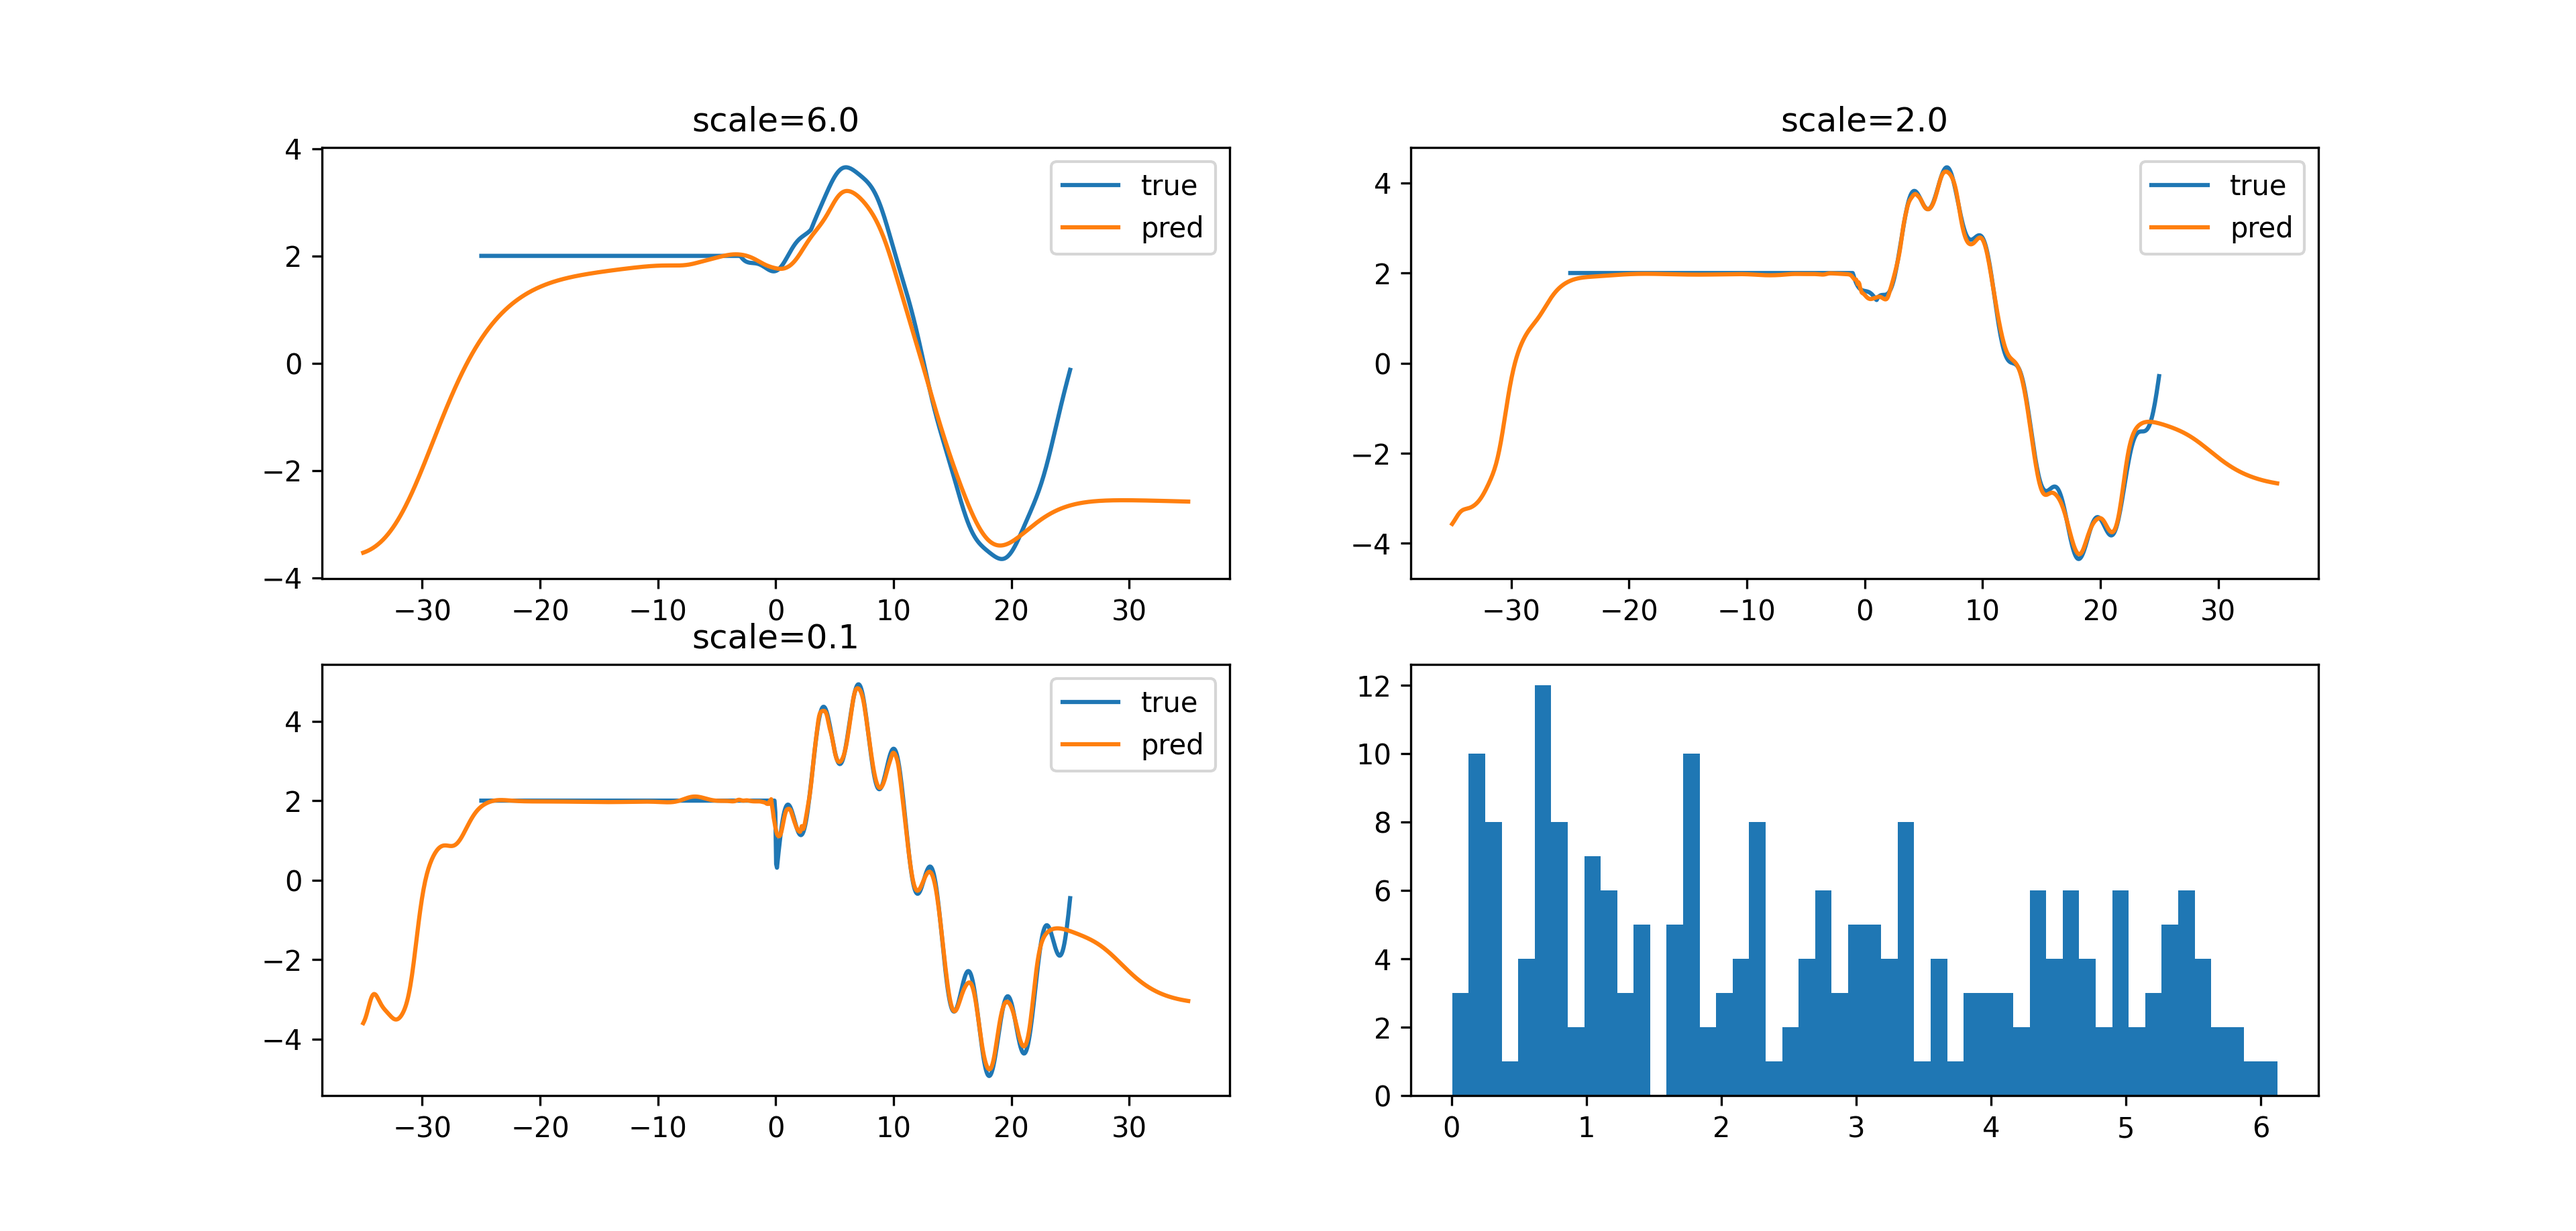
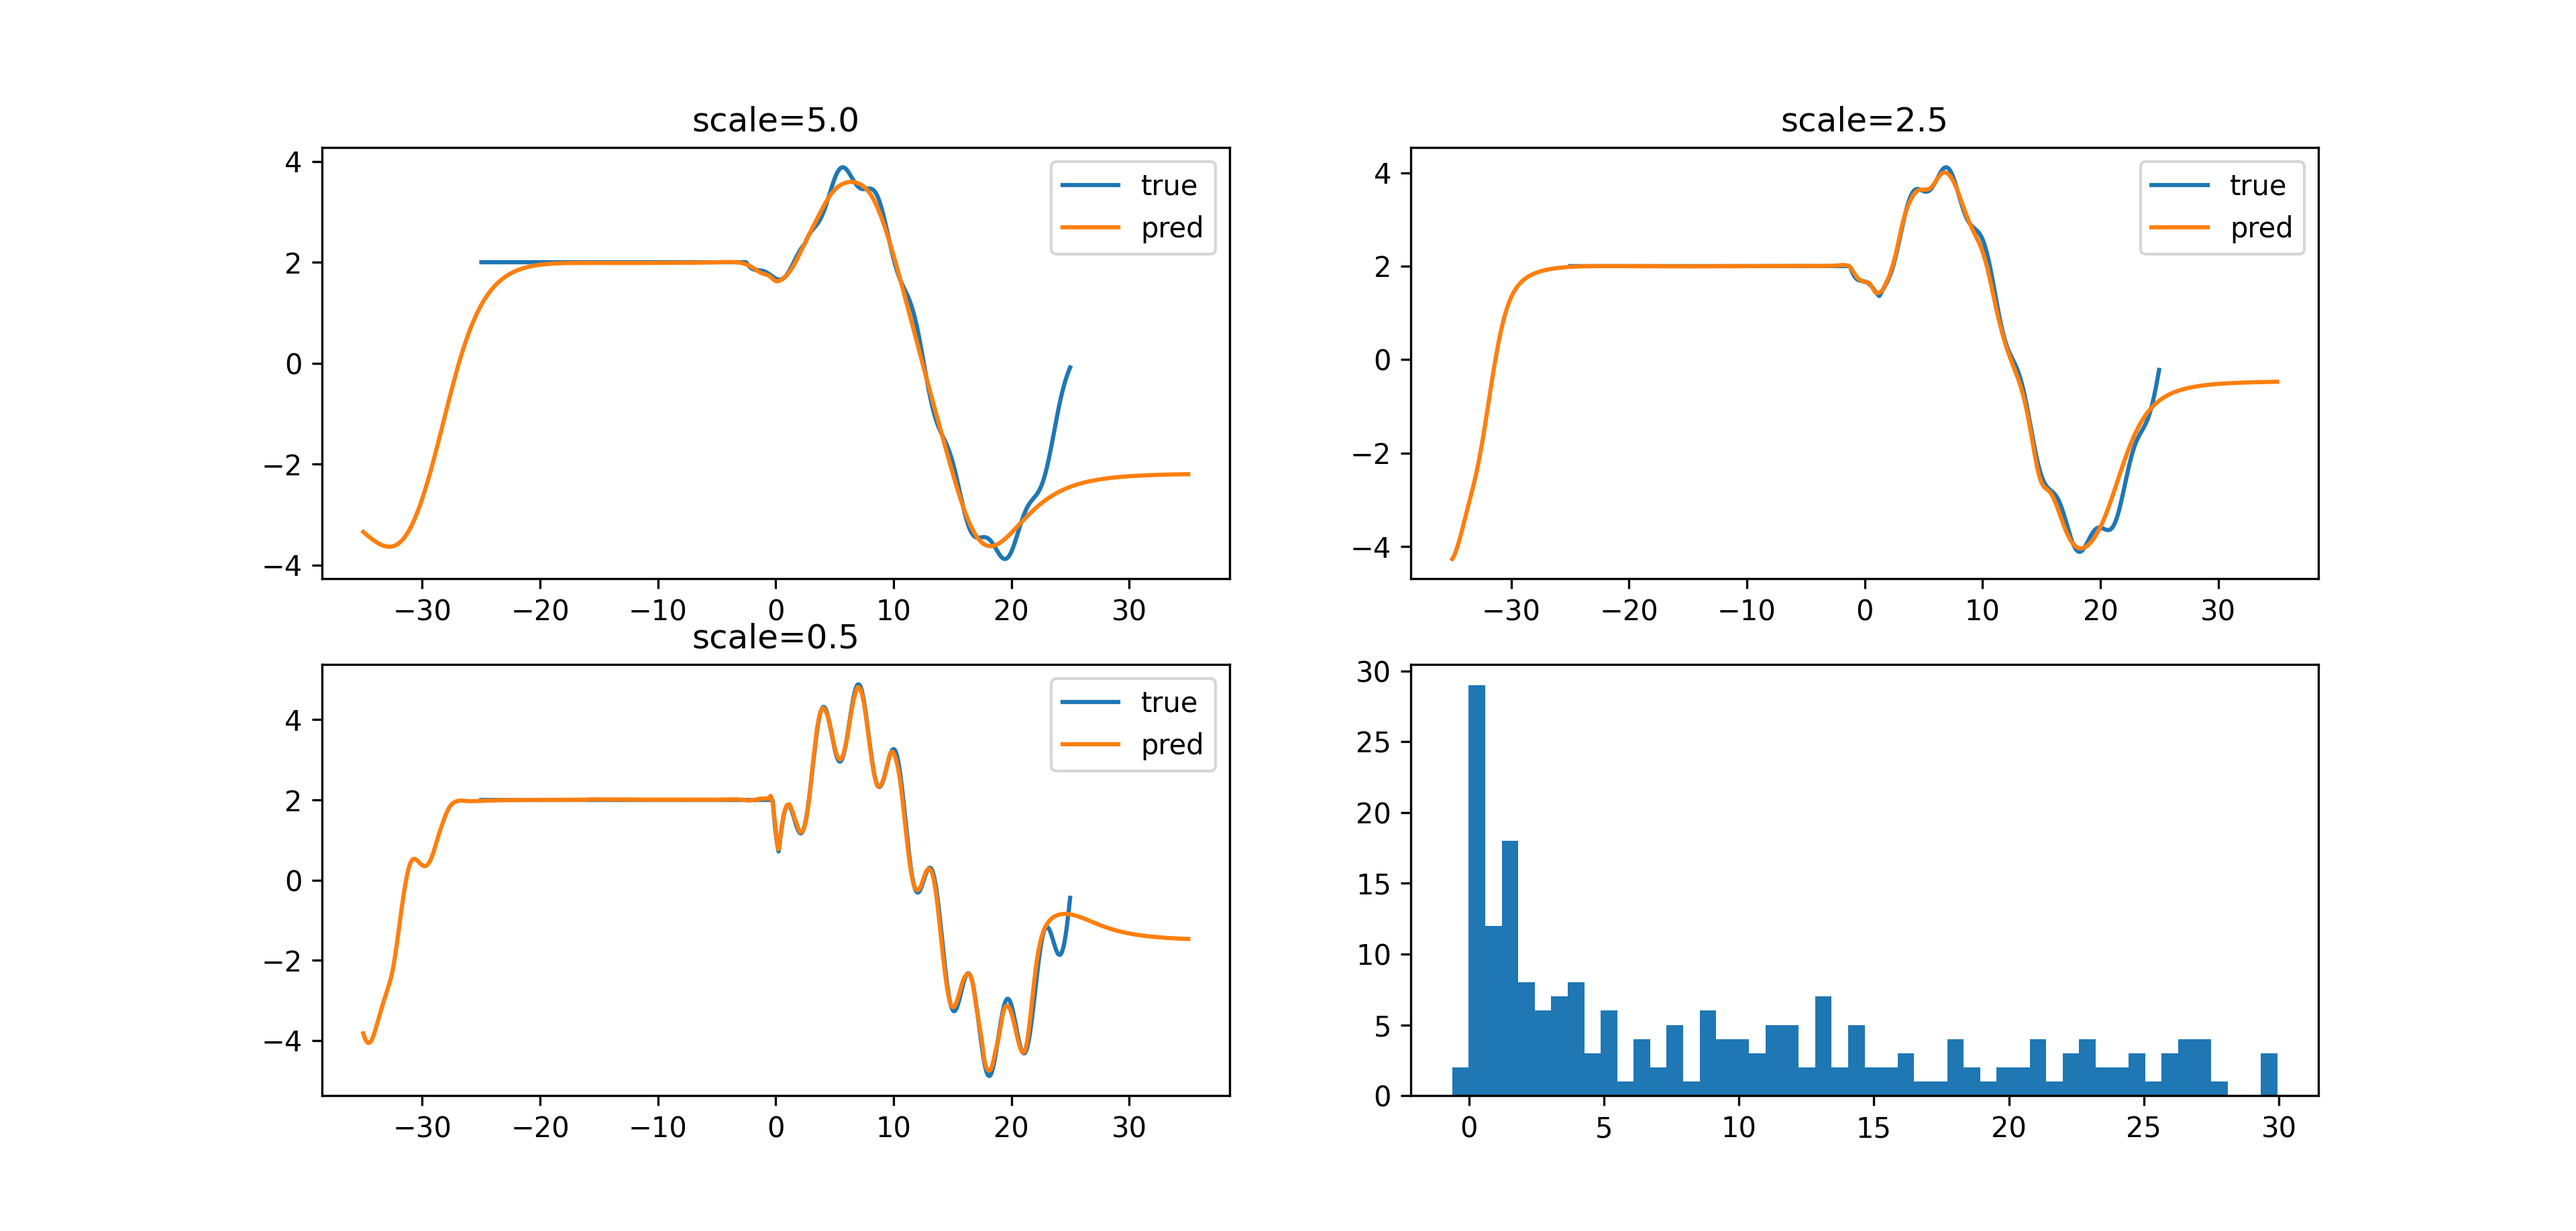
WIP: 1d mip garf

diff --git a/test-camera-similarity/main.py b/test-camera-similarity/main.py
@@ -1,4 +1,5 @@
-from gaussian import GaussAct as GaussActGarf
+from gaussian import GaussAct
+from model import GaussActMLP, Function1, Function2
 
 import torch.nn as nn
 import torch as th
@@ -6,87 +7,6 @@ import matplotlib.pyplot as plt
 
 from itertools import product
 from typing import cast
-
-class GaussAct(GaussActGarf):
-    pass
-
-class GaussActMLP(nn.Module):
-    def __init__(self, n_hidden, input_dim, output_dim, hidden_dim, initial_values):
-        super().__init__()
-        self.activations = []
-        self.layers = []
-        self.input_dim = input_dim
-        self.output_dim = output_dim
-        self.hidden_dim = hidden_dim
-        self.n_hidden = n_hidden
-
-        for i in range(n_hidden):
-            if i == 0:
-                self.layers.append(nn.Linear(input_dim, hidden_dim))
-            else:
-                self.layers.append(nn.Linear(hidden_dim, hidden_dim))
-            self.activations.append(GaussAct(initial_values))
-        self.layers.append(nn.Linear(hidden_dim, output_dim))
-
-        self.layers = nn.ModuleList(self.layers)
-        self.activations = nn.ModuleList(self.activations)
-        
-    def forward(self, x: th.Tensor, scale=0.):
-        for i in range(self.n_hidden):
-            x = self.layers[i](x)
-            x = self.activations[i](x, scale)#*(i==0 or i==self.n_hidden-1))
-        x = self.layers[-1](x)
-        return x
-
-
-def Function1(x, scale = 0.):
-    f1 = lambda x: (th.sin(x/4)*4 + th.sin(2*x))*(x > 0).float()
-    f2 = lambda x: th.ones_like(x)*2*(x <= 0).float()
-    f1_int_ = lambda x: -th.cos(x/4)*16 - th.cos(2*x)/2
-    f2_int_ = lambda x: 2*x
-    f1_int = lambda x: f1_int_(x)*(x > 0).float() + f1_int_(th.tensor(0))*(x <= 0)
-    f2_int = lambda x: f2_int_(x)*(x <= 0).float() + f2_int_(th.tensor(0))*(x > 0)
-    F1 = lambda x,s: (f1_int(x+s/2) - f1_int(x-s/2))/s
-    F2 = lambda x,s: (f2_int(x+s/2) - f2_int(x-s/2))/s
-
-    mask = (x > 25.001) | (x < -25.001)
-    if scale == 0:
-        y = f1(x) + f2(x)
-        y[mask] = th.nan
-    else:
-        y = F1(x, scale) + F2(x, scale)
-        y[mask] = th.nan
-
-    return y
-
-    # plt.plot(x, f1(x), label="f1")
-    # plt.plot(x, f1_int(x), label="f1_int")
-    # plt.plot(x, F1(x, 1.), label="F1")
-    # plt.legend()
-    # plt.show()
-    # plt.plot(x, f2(x), label="f2")
-    # plt.plot(x, f2_int(x), label="f2_int")
-    # plt.plot(x, F2(x, 1.), label="F2")
-    # plt.legend()
-    # plt.show()
-
-
-
-def Function2(x, scale = 0., frequency = th.pi):
-    # similar to Function1, but the underlying function
-    # is just one sinus curve
-    f = lambda x: th.sin(th.pi*x*frequency)
-    f_int = lambda x: -th.cos(th.pi*x*frequency)/frequency/th.pi
-    F = lambda x,s: (f_int(x+s/2) - f_int(x-s/2))/s
-    mask = (x > 25.001) | (x < -25.001)
-    if scale == 0:
-        y = f(x)
-        y[mask] = th.nan
-    else:
-        y = F(x, scale)
-        y[mask] = th.nan
-    
-    return y
 
 
 def true_func(x, scale, frequency=1):
@@ -97,25 +17,18 @@ hidden_dim = 70
 n_hidden = 3
 epochs = 20000
 # scales_test = th.tensor([[6,2],[0.1, th.nan]])
-scales_test = th.tensor([[5., 1., ],[0.5, 0.]])
+scales_test = th.tensor([[5., 2.5, ],[0.5, th.nan]])
 size_train = lambda: int(th.randint(10, 100, (1,)).int().item())
 x_train_func = lambda size: th.rand(size, 1)*40 - 20 + th.rand(size, 1)*8 - 4
 
-initial_values_var = lambda shape: th.rand(shape)*6
-
-model = GaussActMLP(n_hidden, 1, 1, hidden_dim, initial_values_var)
-
+initial_values_func = lambda shape: th.rand(shape)*3 + 0.5
+model = GaussActMLP(n_hidden, 1, 1, hidden_dim, initial_values_func)
 
 optimizer_gauss = th.optim.Adam(model.parameters(), lr=0.001)
 loss_func = nn.MSELoss()
 plt.ion()
 fig, axs = plt.subplots(*scales_test.shape)#, sharex=True, sharey=True, figsize=(15,23))
 axs = axs.reshape(scales_test.shape)
-# x = th.linspace(-35, 35, 10000)
-# ax.plot(x, true_func(x), label="true")
-# ax.plot(x, true_func(x, 3.), label="true: scale=2.5")
-# plt.show()
-# exit()
 
 def slice_(arr, idx):
     if len(idx) == 1:  return arr[idx[0]]
@@ -141,7 +54,7 @@ for j in range(epochs):
                 ax.clear()
                 scale = cast(th.Tensor, slice_(scales_test, idx))
                 if th.isnan(scale):
-                    act_params = th.cat([a.variance for a in model.activations]).flatten() #type: ignore
+                    act_params = th.cat([a.param for a in model.activations]).flatten() #type: ignore
                     ax.hist(act_params, bins=50)
                 else:
                     y_test = true_func(x_test, cast(float, scale))

diff --git a/test-camera-similarity/gaussian.py b/test-camera-similarity/gaussian.py
@@ -6,51 +6,44 @@ from typing import cast, Callable
 class GaussActivation(th.autograd.Function):
 
     @staticmethod
-    def forward(ctx, x, variance) -> th.Tensor:
+    def forward(ctx, x, variance_inv) -> th.Tensor:
         # Save parameters
-        ctx.save_for_backward(x, variance)
+        ctx.save_for_backward(x, variance_inv)
 
         # Compute output
-        return th.exp(-x**2 / (2*variance))
+        return th.exp(-x**2*2*variance_inv)
 
     @staticmethod
     def backward(ctx, grad_output):
         # Retrieve parameters
-        x, variance = ctx.saved_tensors
+        x, variance_inv = ctx.saved_tensors
 
         # Compute gradients
         x2 = x**2
-        exp = th.exp(-x2 / (2*variance))
+        exp = th.exp(-x2*2*variance_inv)
         grad_exp = grad_output * exp
 
-        grad_input_x = -grad_exp * x / variance
-        grad_input_variance = grad_exp * x2 / (2*variance**2)
+        grad_input_x = -grad_exp * x * variance_inv * 4
+        grad_input_variance_inv = -grad_exp * x2 * 2
 
-        return grad_input_x, grad_input_variance
+        return grad_input_x, grad_input_variance_inv
 
 
 class GaussAct(nn.Module):
-    def __init__(self, initial_values: Callable):
+    def __init__(self, size: int, initial_values: Callable):
         # Initialize parameters
         super().__init__()
         #NOTE: negative standard_deviation is allowed to be negative as we only ever use var = std**2
-        self.act_var = lambda x: x**2 + 1e-6
+        self.act_param = lambda x: x**2
         self.func = GaussActivation.apply
-        self.standard_deviation = None
-        self.initial_values = initial_values
+        self.param = nn.Parameter(initial_values(size))
         self.loss: th.Tensor = th.tensor(0)
-        self.register_full_backward_pre_hook(hook=GaussAct.hook)
-
-    def setup(self, x: th.Tensor):
-        self.standard_deviation = nn.Parameter(self.initial_values(x.shape[1:]))
+    #     self.register_full_backward_hook(hook=GaussAct.hook)
     
-    @property
-    def variance(self) -> th.Tensor:
-        return self.act_var(self.standard_deviation)
-    
-    @staticmethod
-    def hook(module, grad_output):
-        module.loss = th.tensor(0)
+    # @staticmethod
+    # def hook(module, grad_input, grad_output):
+    #     module.loss = th.tensor(0)
+    #     return grad_input, grad_output
 
     # def forward(self, x: th.Tensor, scale=0.) -> th.Tensor:
     #     if self.standard_deviation is None:
@@ -61,28 +54,27 @@ class GaussAct(nn.Module):
     #     return cast(th.Tensor, self.func(x, var))
 
     def forward(self, x: th.Tensor, scale=0.) -> th.Tensor:
-        if self.standard_deviation is None:
-            self.setup(x)
-        var = self.variance
-        freq_represent = 1/(6*th.sqrt(var))
+        var_inv = self.act_param(self.param)
+        freq_represent = th.sqrt(var_inv)/10
         if scale == 0:
             weight = 1.
         else:
             freq_scale = 1/scale
-            weight = (1 - th.cos(th.pi*(freq_represent-freq_scale*2)/(freq_scale)))/2
-            weight[freq_represent < freq_scale] = 1.
-            weight[freq_represent > freq_scale*2] = 0.
+            # weight = (1 - th.cos(th.pi*(freq_represent-freq_scale*2)/(freq_scale)))/2
+            # weight[freq_represent < freq_scale] = 1.
+            # weight[freq_represent > freq_scale*2] = 0.
+            weight = th.sigmoid(3*th.pi - 2*th.pi*freq_represent/freq_scale).detach()
 
-        return cast(th.Tensor, self.func(x, var))*weight
+        return cast(th.Tensor, self.func(x, var_inv))*weight
     
 if __name__ == "__main__":
         freq_represent = th.linspace(0, 1, 1000)
         freq_scale = 0.5
-        m1 = (freq_represent > freq_scale) & (freq_represent < freq_scale*2)
-        m2 = (freq_represent > freq_scale/2) & (freq_represent < freq_scale)
-        weight = th.zeros_like(freq_represent)
-        weight[m1] = (1 - th.cos(th.pi*(freq_represent[m1]-freq_scale*2)/(freq_scale)))/2
-        weight[m2] = (1 - th.cos(th.pi*(freq_represent[m2]-freq_scale/2)/(freq_scale/2)))/2
+        weight1 = (1 - th.cos(th.pi*(freq_represent-freq_scale*2)/(freq_scale)))/2
+        weight1[freq_represent < freq_scale] = 1.
+        weight1[freq_represent > freq_scale*2] = 0.
+        weight2 = th.sigmoid(3*th.pi - 2*th.pi*freq_represent/freq_scale)
         import matplotlib.pyplot as plt
-        plt.plot(freq_represent, weight)
+        plt.plot(freq_represent, weight1)
+        plt.plot(freq_represent, weight2)
         plt.show()

diff --git a/test-camera-similarity/model.py b/test-camera-similarity/model.py
@@ -1,0 +1,79 @@
+
+from gaussian import GaussAct
+from torch import nn
+import torch as th
+import torch.nn.functional as F
+
+
+def Function1(x, scale = 0.):
+    f1 = lambda x: (th.sin(x/4)*4 + th.sin(2*x))*(x > 0).float()
+    f2 = lambda x: th.ones_like(x)*2*(x <= 0).float()
+    f1_int_ = lambda x: -th.cos(x/4)*16 - th.cos(2*x)/2
+    f2_int_ = lambda x: 2*x
+    f1_int = lambda x: f1_int_(x)*(x > 0).float() + f1_int_(th.tensor(0))*(x <= 0)
+    f2_int = lambda x: f2_int_(x)*(x <= 0).float() + f2_int_(th.tensor(0))*(x > 0)
+    F1 = lambda x,s: (f1_int(x+s/2) - f1_int(x-s/2))/s
+    F2 = lambda x,s: (f2_int(x+s/2) - f2_int(x-s/2))/s
+
+    mask = (x > 25.001) | (x < -25.001)
+    if scale == 0:
+        y = f1(x) + f2(x)
+        y[mask] = th.nan
+    else:
+        y = F1(x, scale) + F2(x, scale)
+        y[mask] = th.nan
+
+    return y
+
+
+def Function2(x, scale = 0., frequency = th.pi):
+    # similar to Function1, but the underlying function
+    # is just one sinus curve
+    f = lambda x: th.sin(th.pi*x*frequency)
+    f_int = lambda x: -th.cos(th.pi*x*frequency)/frequency/th.pi
+    F = lambda x,s: (f_int(x+s/2) - f_int(x-s/2))/s
+    mask = (x > 25.001) | (x < -25.001)
+    if scale == 0:
+        y = f(x)
+        y[mask] = th.nan
+    else:
+        y = F(x, scale)
+        y[mask] = th.nan
+    
+    return y
+
+
+
+class MyLinear(nn.Linear):
+    pass
+    # def forward(self, x):
+    #     return F.linear(x, self.weight/th.sum(self.weight, dim=1, keepdim=True).detach(), self.bias)
+
+class GaussActMLP(nn.Module):
+    def __init__(self, n_hidden, input_dim, output_dim, hidden_dim, initial_values):
+        super().__init__()
+        self.activations = []
+        self.layers = []
+        self.input_dim = input_dim
+        self.output_dim = output_dim
+        self.hidden_dim = hidden_dim
+        self.n_hidden = n_hidden
+
+        for i in range(n_hidden):
+            if i == 0:
+                self.layers.append(MyLinear(input_dim, hidden_dim))
+            else:
+                self.layers.append(MyLinear(hidden_dim, hidden_dim))
+            self.activations.append(GaussAct(hidden_dim, initial_values))
+        self.layers.append(MyLinear(hidden_dim, output_dim))
+
+        self.layers = nn.ModuleList(self.layers)
+        self.activations = nn.ModuleList(self.activations)
+        
+    def forward(self, x: th.Tensor, scale=0.):
+        for i in range(self.n_hidden):
+            x = self.layers[i](x)
+            x = self.activations[i](x, (scale*(i==0 or i==self.n_hidden-1)))
+        x = self.layers[-1](x)
+        return x
+
